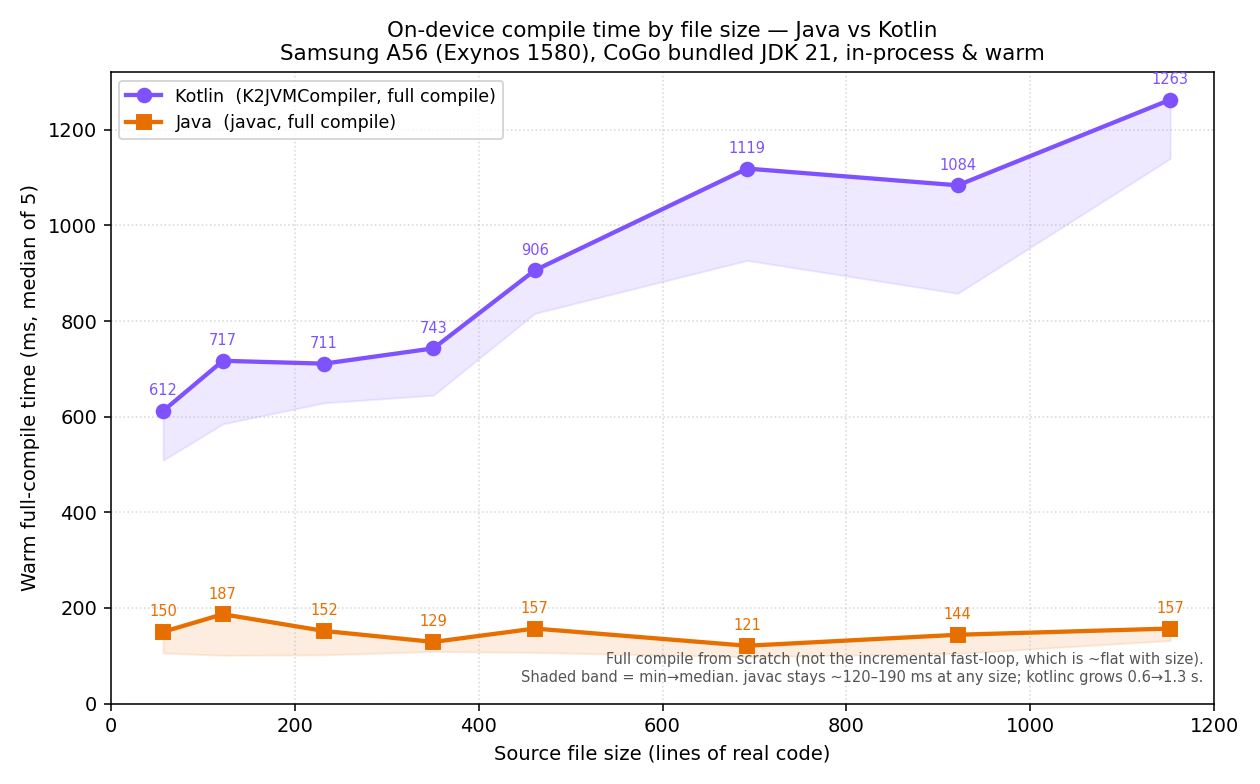
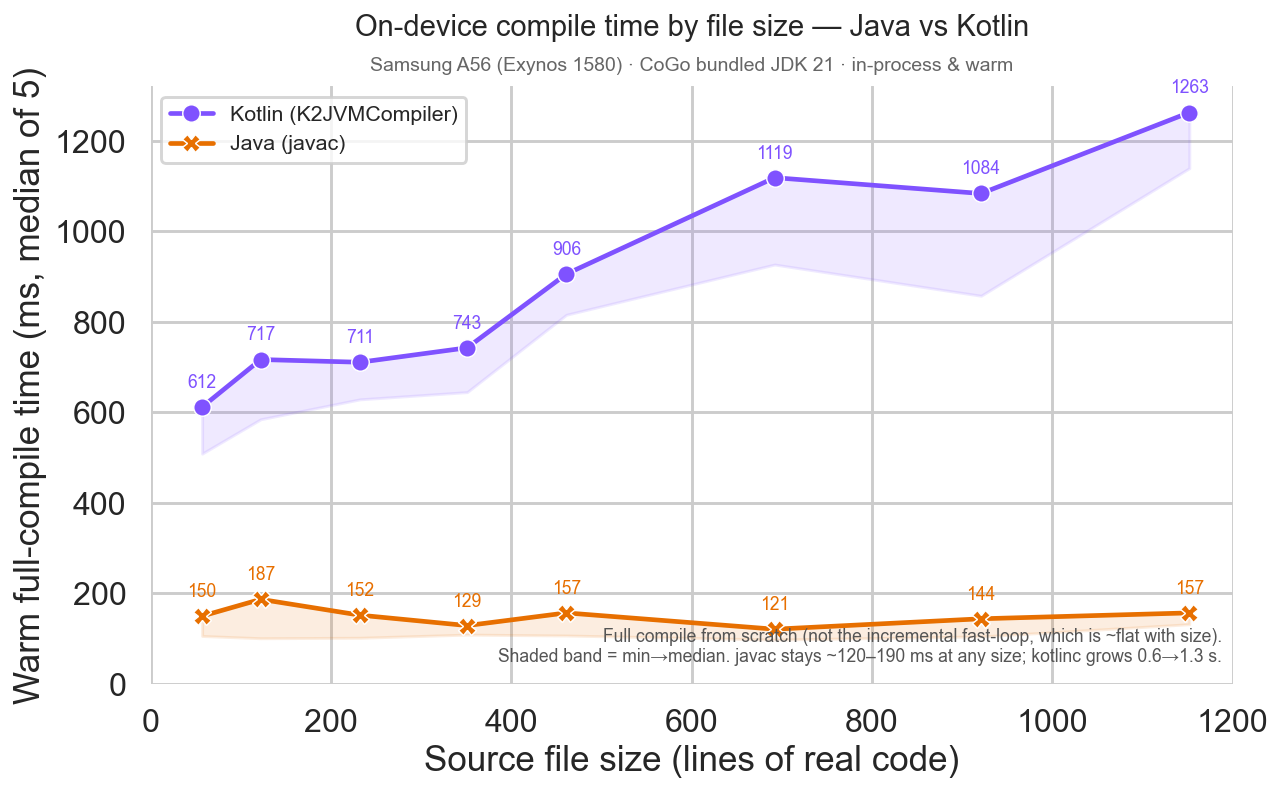
ADFA-4128: Rewrite langbench plot with Seaborn
Use seaborn.lineplot (pandas DataFrame, talk theme, despined) instead of
raw matplotlib, per fleet convention to prefer modern plotting libs.

Claude-Session: https://claude.ai/code/session_0188n2DUhojGhrjWLp4i5uNE

diff --git a/spike/mini-stubby/bench/plot_langbench.py b/spike/mini-stubby/bench/plot_langbench.py
@@ -1,40 +1,45 @@
 #!/usr/bin/env python3
-"""Plot Java-vs-Kotlin full-compile time vs file size (on-device A56)."""
-import csv, sys
-import matplotlib
-matplotlib.use("Agg")
+"""Plot Java-vs-Kotlin full-compile time vs file size (on-device A56) with Seaborn."""
+import sys
+import pandas as pd
+import seaborn as sns
 import matplotlib.pyplot as plt
 
-rows = list(csv.DictReader(open(sys.argv[1] if len(sys.argv) > 1 else "langbench-ondevice.csv")))
-d = {"kotlin": [], "java": []}
-for r in rows:
-    d[r["lang"]].append((int(r["loc"]), int(r["median_ms"]), int(r["min_ms"])))
-for k in d: d[k].sort()
+csv = sys.argv[1] if len(sys.argv) > 1 else "langbench-ondevice.csv"
+df = pd.read_csv(csv)
+df["lang"] = df["lang"].map({"kotlin": "Kotlin (K2JVMCompiler)", "java": "Java (javac)"})
 
-fig, ax = plt.subplots(figsize=(9, 5.6), dpi=140)
-styles = {"kotlin": ("#7F52FF", "o", "Kotlin  (K2JVMCompiler, full compile)"),
-          "java":   ("#E76F00", "s", "Java  (javac, full compile)")}
-for lang, (color, mk, label) in styles.items():
-    xs = [p[0] for p in d[lang]]; med = [p[1] for p in d[lang]]; mn = [p[2] for p in d[lang]]
-    ax.plot(xs, med, color=color, marker=mk, lw=2.2, ms=7, label=label, zorder=3)
-    ax.fill_between(xs, mn, med, color=color, alpha=0.12, zorder=1)
-    for x, y in zip(xs, med):
-        ax.annotate(f"{y}", (x, y), textcoords="offset points", xytext=(0, 8),
-                    ha="center", fontsize=7.5, color=color)
+sns.set_theme(style="whitegrid", context="talk")
+palette = {"Kotlin (K2JVMCompiler)": "#7F52FF", "Java (javac)": "#E76F00"}
+
+fig, ax = plt.subplots(figsize=(9.5, 6), dpi=140)
+# min→median band per language
+for lang, sub in df.groupby("lang"):
+    sub = sub.sort_values("loc")
+    ax.fill_between(sub["loc"], sub["min_ms"], sub["median_ms"],
+                    color=palette[lang], alpha=0.12, zorder=1)
+sns.lineplot(data=df, x="loc", y="median_ms", hue="lang", style="lang",
+             markers=True, dashes=False, palette=palette, linewidth=2.4,
+             markersize=9, ax=ax, zorder=3)
+
+for _, r in df.iterrows():
+    ax.annotate(f"{int(r['median_ms'])}", (r["loc"], r["median_ms"]),
+                textcoords="offset points", xytext=(0, 10), ha="center",
+                fontsize=9, color=palette[r["lang"]])
 
 ax.set_xlabel("Source file size (lines of real code)")
 ax.set_ylabel("Warm full-compile time (ms, median of 5)")
-ax.set_title("On-device compile time by file size — Java vs Kotlin\n"
-             "Samsung A56 (Exynos 1580), CoGo bundled JDK 21, in-process & warm",
-             fontsize=11)
-ax.grid(True, ls=":", alpha=0.5)
+ax.set_title("On-device compile time by file size — Java vs Kotlin", fontsize=15, pad=26)
+ax.text(0.5, 1.02, "Samsung A56 (Exynos 1580) · CoGo bundled JDK 21 · in-process & warm",
+        transform=ax.transAxes, ha="center", va="bottom", fontsize=10, color="#666")
 ax.set_ylim(0, None); ax.set_xlim(0, 1200)
-ax.legend(loc="upper left", frameon=True, fontsize=9)
+ax.legend(title="", loc="upper left", frameon=True, fontsize=11)
 ax.text(0.99, 0.03,
         "Full compile from scratch (not the incremental fast-loop, which is ~flat with size).\n"
         "Shaded band = min→median. javac stays ~120–190 ms at any size; kotlinc grows 0.6→1.3 s.",
-        transform=ax.transAxes, ha="right", va="bottom", fontsize=7.5, color="#555")
+        transform=ax.transAxes, ha="right", va="bottom", fontsize=9, color="#555")
+sns.despine(left=True, bottom=True)
 fig.tight_layout()
 out = "langbench-ondevice.png"
-fig.savefig(out)
+fig.savefig(out, bbox_inches="tight")
 print("wrote", out)